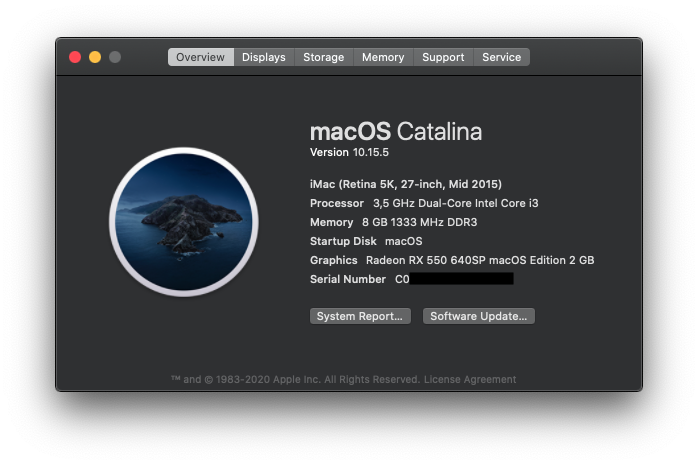
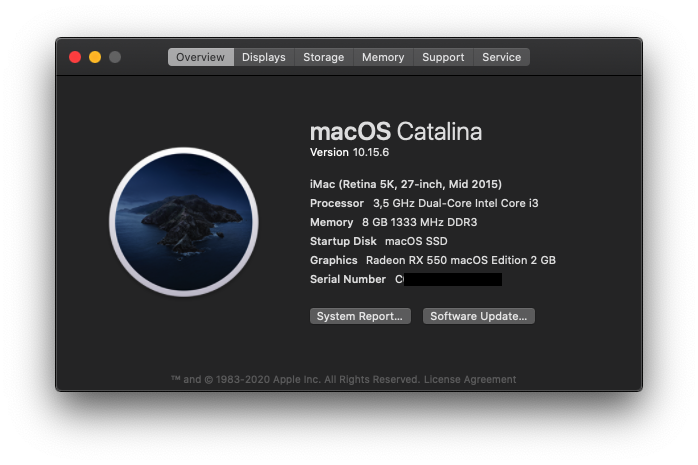
[UPDATE] Readme and screenshot

diff --git a/README.md b/README.md
@@ -1,4 +1,5 @@
-# MSIntosh with OpenCore Bootloader - Catalina (10.15.5)
+# MSIntosh with OpenCore Bootloader - Catalina (10.15.6)
+## OpenCore Version : 0.6.0
 ![SystemInfo](https://raw.githubusercontent.com/kpratama24/MSIntosh/master/Screenshot/Catalina/Overview.png)
 
 # Hardware
